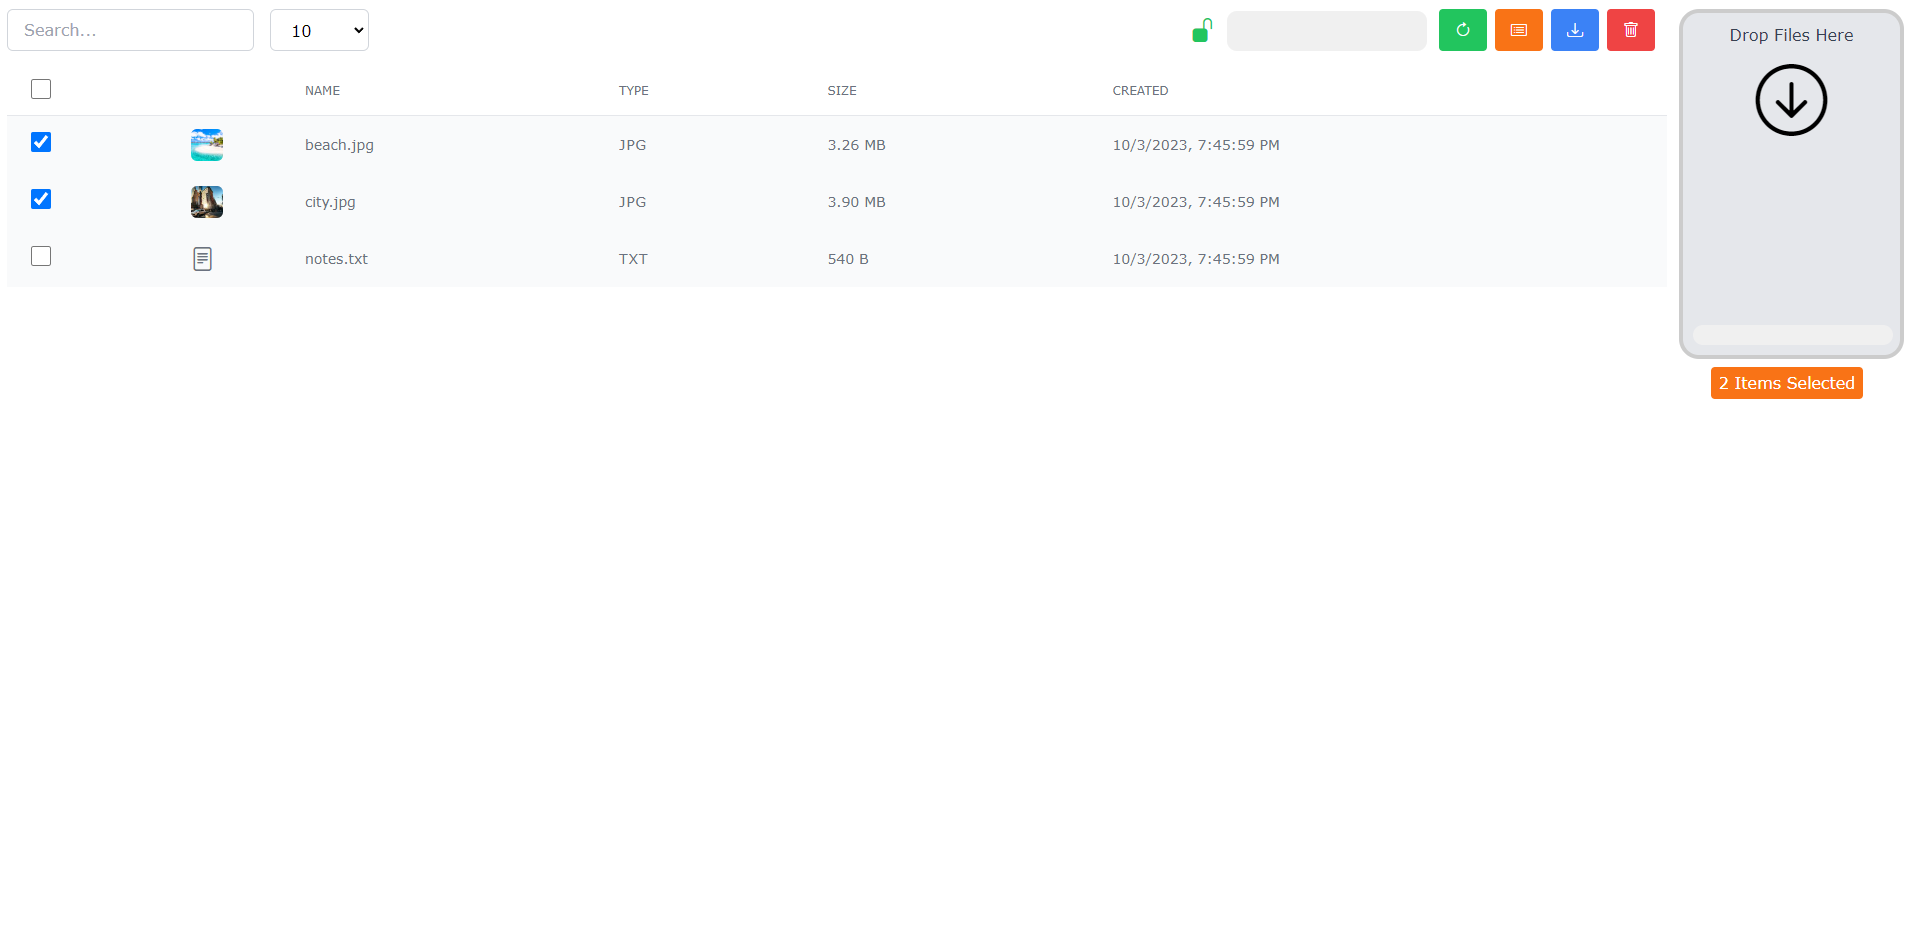
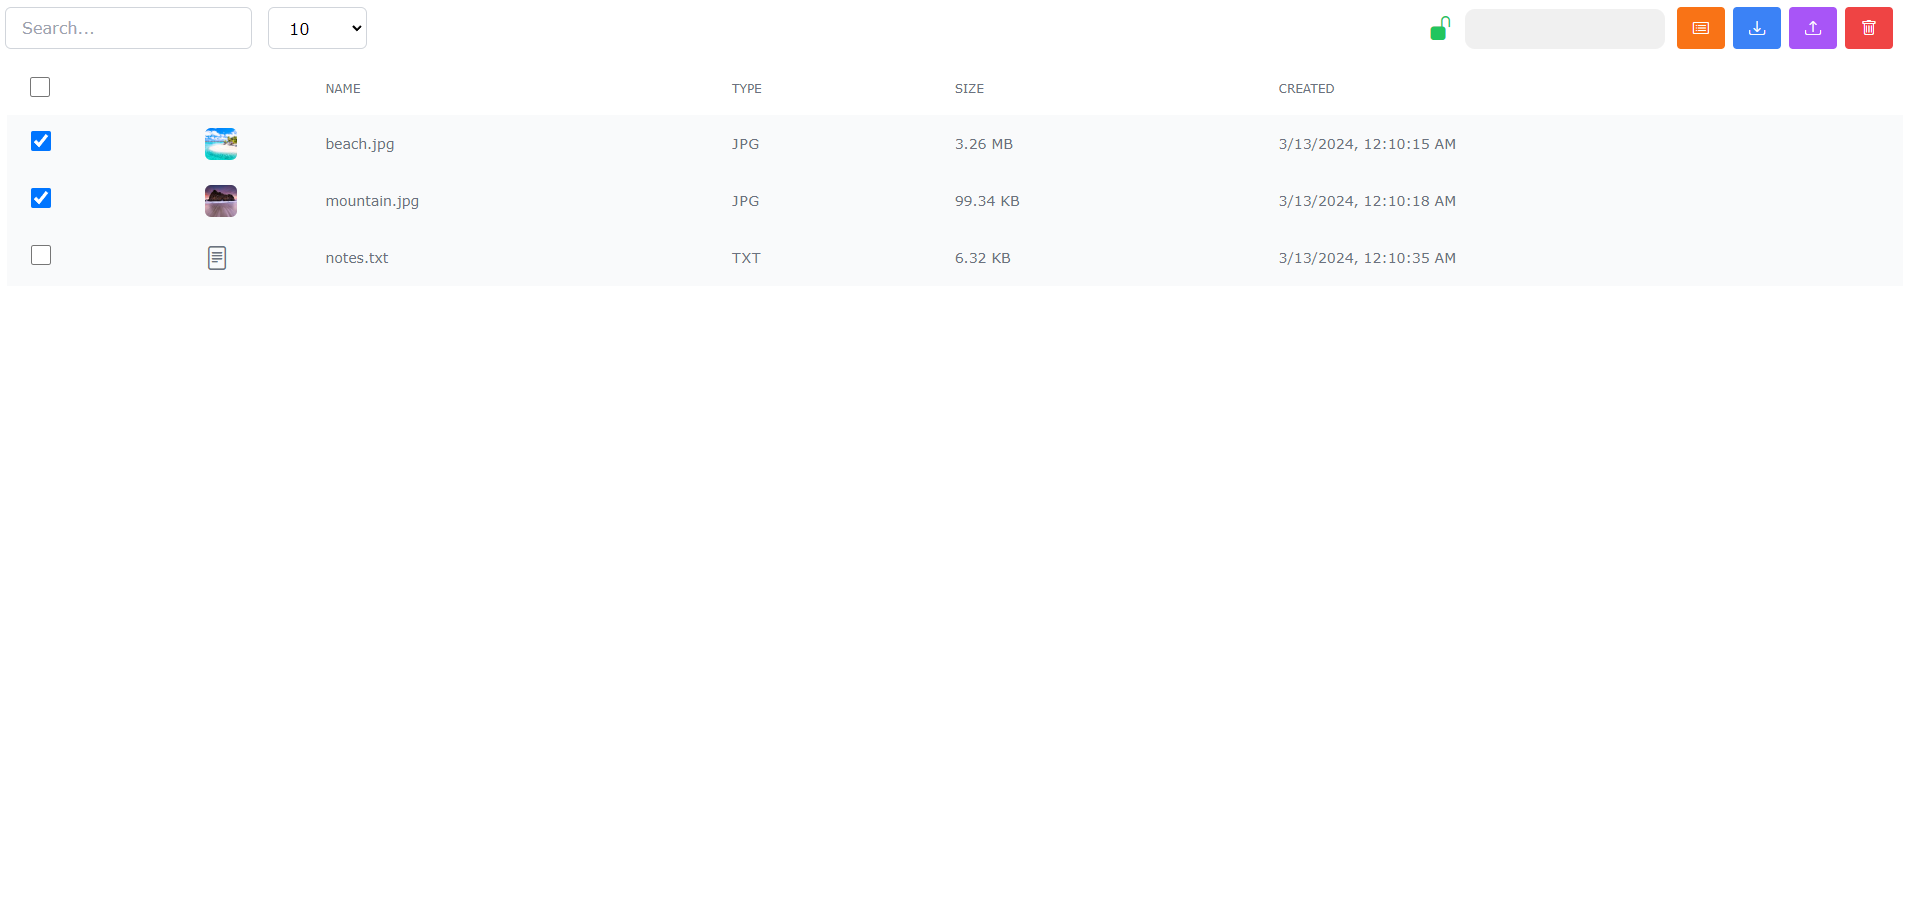
backend sort files by date/binary file detection/new demo images

diff --git a/src/components/file-modal.js b/src/components/file-modal.js
@@ -10,7 +10,6 @@ function FileModal(args)
   const imageTypes = ['jpg', 'png', 'jpeg'];
   const audioTypes = ['mp3', 'wav', 'ogg'];
   const videoTypes = ['mp4', 'avi', 'mov', 'wmv', 'mkv'];
-  const allowedCharacterTypes = ['txt', 'sql', 'json', 'html', 'csv'];
   
   let currentWidth = 100;
 
@@ -99,7 +98,7 @@ function FileModal(args)
                 : audioTypes.some(type => type == file.type)
                 ? <audio src={URL.createObjectURL(fileContent)} controls></audio>
                 : <p className='whitespace-pre-line'>
-                    {allowedCharacterTypes.includes(file.type) ? fileContent : 'File cannot be displayed because it is not supported'}
+                    {!(/[\x00-\x08\x0E-\x1F\x7F-\x9F]/).test(fileContent) ? fileContent : 'File cannot be displayed because it is not supported'}
                   </p>
               }
             </div>

diff --git a/server/server.js b/server/server.js
@@ -72,6 +72,10 @@ route.get('/api/files', middleware, (request, result) => {
       fileId++;
     });
 
+    localFiles.sort((a, b) => {
+      return b.date - a.date;
+    });
+
     result.send({ files: localFiles, count: files.length });
   });
 });
